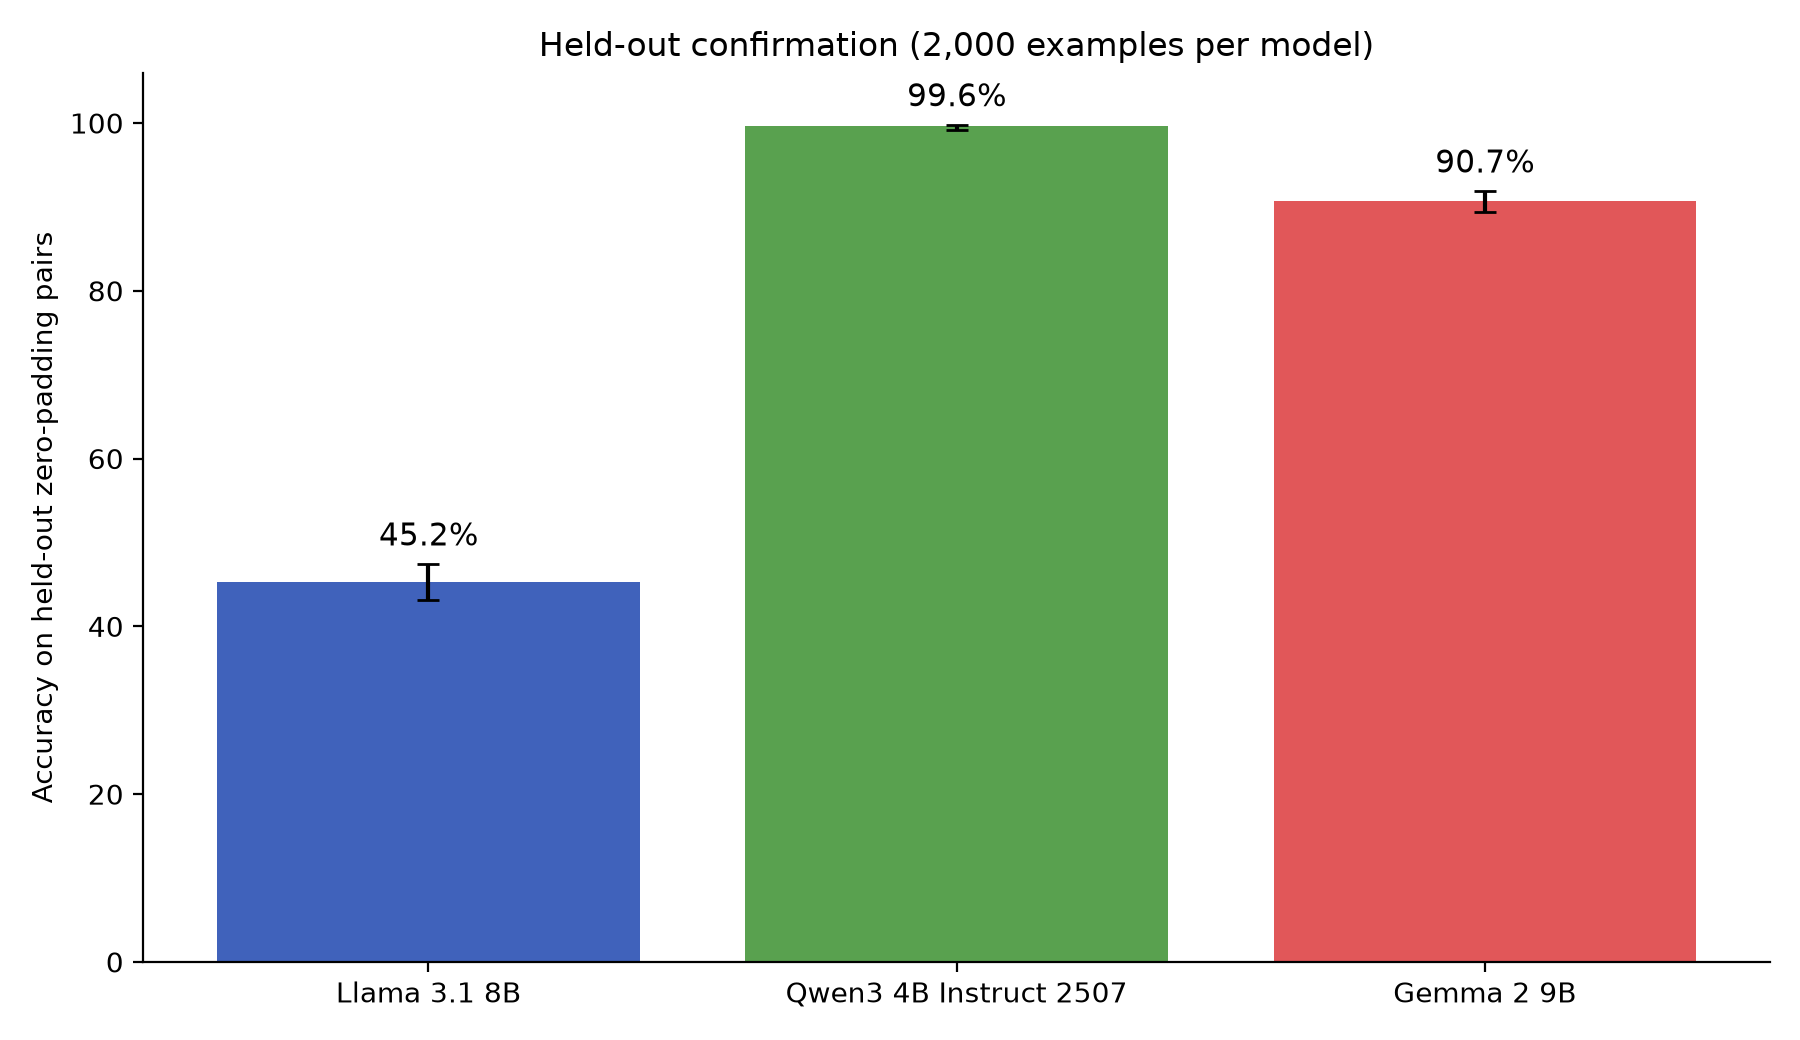
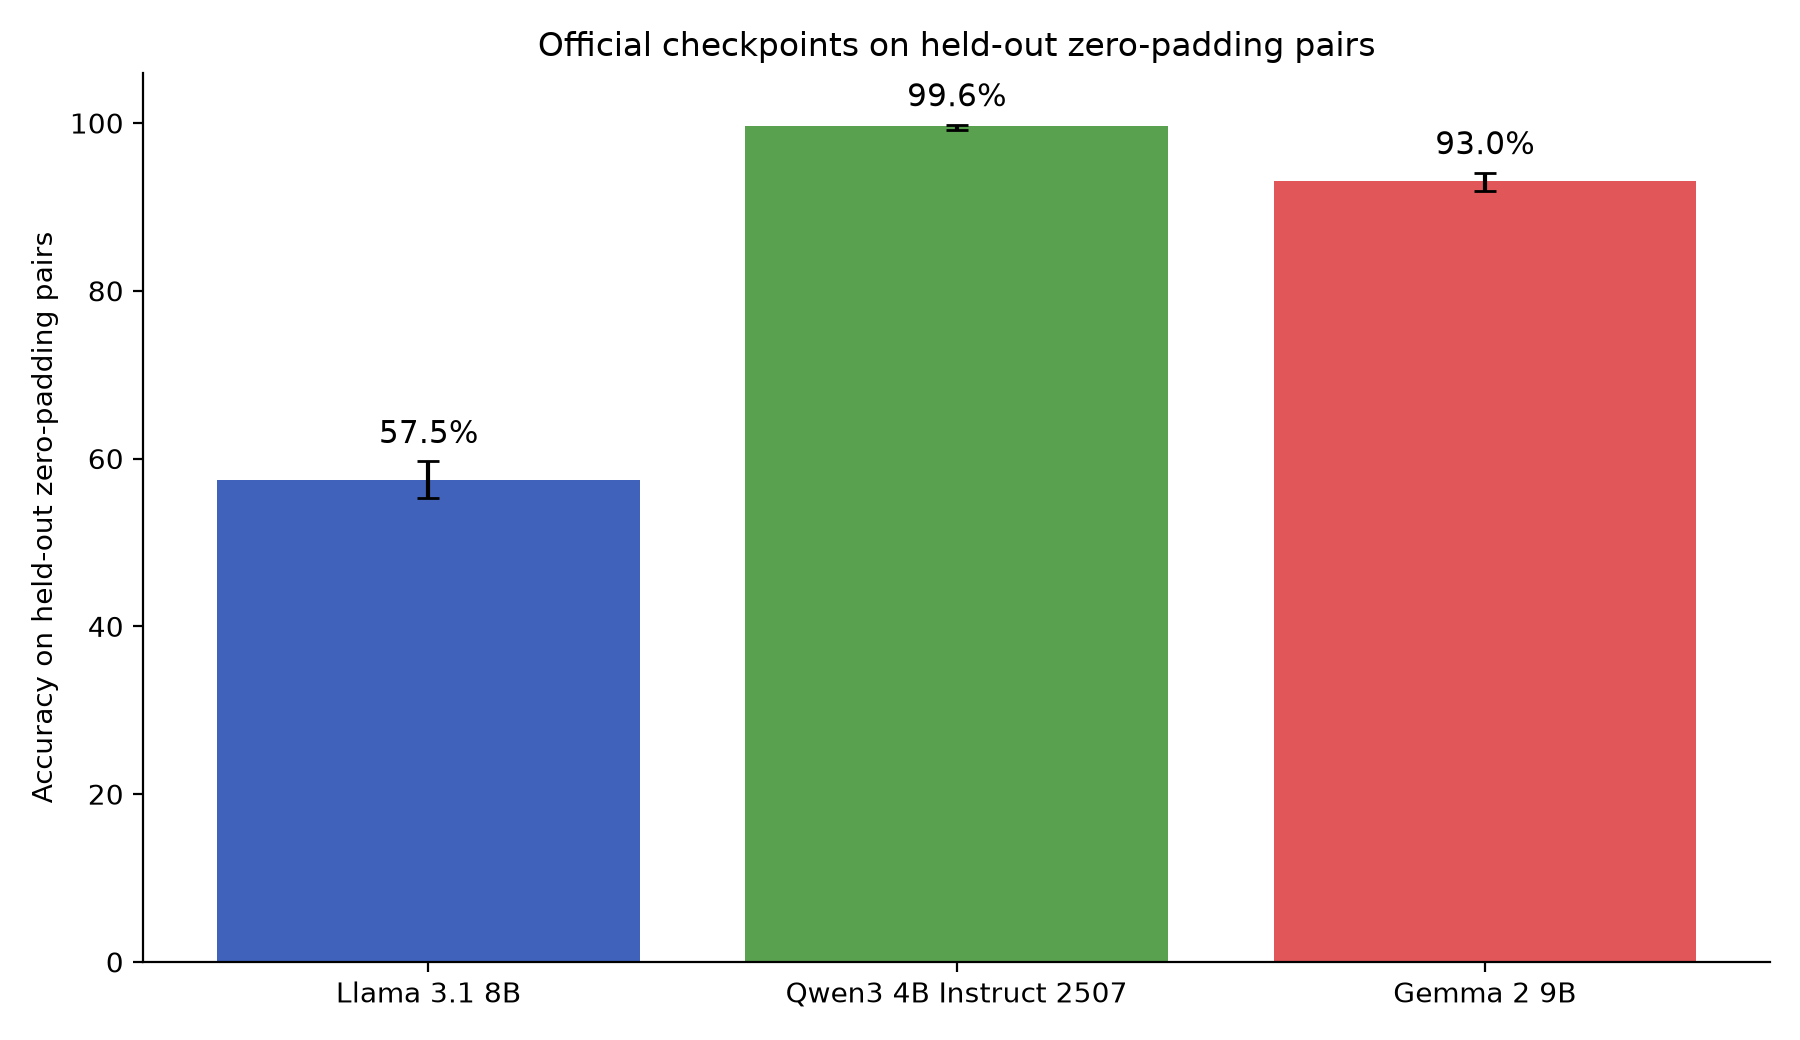
Use official checkpoints in primary results

diff --git a/scripts/build_report.py b/scripts/build_report.py
@@ -29,8 +29,13 @@ RUNS = {
     ("Gemma 2 9B", "Zero-padding", 0): RESULTS / "gemma2-9b__zero_padding__p0.jsonl",
     ("Llama 3.1 8B full precision", "Integer", 0): RESULTS / "meta-llama-Meta-Llama-3.1-8B-Instruct__integers__p0__mlx.jsonl",
     ("Llama 3.1 8B full precision", "Misleading", 0): RESULTS / "meta-llama-Meta-Llama-3.1-8B-Instruct__misleading__p0__mlx.jsonl",
+    ("Llama 3.1 8B full precision", "Zero-padding held-out", 0): RESULTS / "meta-llama-Meta-Llama-3.1-8B-Instruct__confirmatory_zero_padding__p0__mlx.jsonl",
+    ("Llama 3.1 8B full precision", "Zero-padding held-out", 1): RESULTS / "meta-llama-Meta-Llama-3.1-8B-Instruct__confirmatory_zero_padding__p1__mlx.jsonl",
+    ("Llama 3.1 8B full precision", "Zero-padding held-out", 2): RESULTS / "meta-llama-Meta-Llama-3.1-8B-Instruct__confirmatory_zero_padding__p2__mlx.jsonl",
+    ("Qwen3 4B Instruct 2507", "Zero-padding held-out", 0): RESULTS / "Qwen-Qwen3-4B-Instruct-2507__confirmatory_zero_padding__p0__mlx.jsonl",
     ("Gemma 2 9B full precision", "Integer", 0): RESULTS / "google-gemma-2-9b-it__integers__p0__mlx.jsonl",
     ("Gemma 2 9B full precision", "Misleading", 0): RESULTS / "google-gemma-2-9b-it__misleading__p0__mlx.jsonl",
+    ("Gemma 2 9B full precision", "Zero-padding held-out", 0): RESULTS / "google-gemma-2-9b-it__confirmatory_zero_padding__p0__mlx.jsonl",
 }
 
 
@@ -44,8 +49,9 @@ def wilson(k, n, z=1.959963984540054):
 
 def load_run(path):
     rows = [json.loads(line) for line in path.read_text().splitlines()]
-    if len(rows) != 1000:
-        raise ValueError(f"Expected 1000 rows in {path}, found {len(rows)}")
+    expected = 2000 if "confirmatory_zero_padding" in path.name else 1000
+    if len(rows) != expected:
+        raise ValueError(f"Expected {expected} rows in {path}, found {len(rows)}")
     if any(r.get("parse_status") == "error" for r in rows):
         raise ValueError(f"Execution error present in {path}")
     ids = [r["id"] for r in rows]
@@ -79,25 +85,28 @@ def summarize(model, task, prompt, path):
 
 
 def make_cross_model_plot(rows):
-    models = ["Llama 3.1 8B", "Qwen3 4B Instruct 2507", "Gemma 2 9B"]
-    tasks = ["Integer", "Misleading", "Zero-padding"]
+    models = ["Llama 3.1 8B full precision", "Qwen3 4B Instruct 2507", "Gemma 2 9B full precision"]
+    model_labels = ["Llama 3.1 8B", "Qwen3 4B", "Gemma 2 9B"]
+    tasks = ["Integer", "Misleading", "Zero-padding held-out"]
+    task_labels = ["Integer (n=1,000)", "Misleading decimal (n=1,000)",
+                   "Equal zero-padding (n=2,000)"]
     colors = ["#4062BB", "#59A14F", "#E15759"]
     fig, ax = plt.subplots(figsize=(10, 5.5))
     width = 0.24
     x = list(range(len(models)))
-    for j, task in enumerate(tasks):
+    for j, (task, task_label) in enumerate(zip(tasks, task_labels)):
         vals = [next(r for r in rows if r["model"] == m and r["task"] == task and r["prompt_variant"] == 0) for m in models]
         xs = [v + (j - 1) * width for v in x]
         ys = [100 * r["accuracy"] for r in vals]
         errors = [[100 * (r["accuracy"] - r["ci_low"]) for r in vals],
                   [100 * (r["ci_high"] - r["accuracy"]) for r in vals]]
-        bars = ax.bar(xs, ys, width, label=task, color=colors[j], yerr=errors,
+        bars = ax.bar(xs, ys, width, label=task_label, color=colors[j], yerr=errors,
                       capsize=3)
         ax.bar_label(bars, labels=[f"{y:.1f}" for y in ys], padding=3, fontsize=9)
-    ax.set_xticks(x, models)
+    ax.set_xticks(x, model_labels)
     ax.set_ylim(0, 110)
     ax.set_ylabel("Accuracy (%)")
-    ax.set_title("Decimal brittleness is concentrated in Llama 3.1 8B", pad=46)
+    ax.set_title("Official checkpoints show a large three-model gap", pad=46)
     ax.legend(frameon=False, ncols=3, loc="lower center",
               bbox_to_anchor=(0.5, 1.01))
     ax.spines[["top", "right"]].set_visible(False)
@@ -107,17 +116,17 @@ def make_cross_model_plot(rows):
 
 
 def make_prompt_plot(rows):
-    vals = [next(r for r in rows if r["model"] == "Llama 3.1 8B" and
-                 r["task"] == "Zero-padding" and r["prompt_variant"] == p)
+    vals = [next(r for r in rows if r["model"] == "Llama 3.1 8B full precision" and
+                 r["task"] == "Zero-padding held-out" and r["prompt_variant"] == p)
             for p in range(3)]
     labels = ["Primary prompt", "Compare values", "Select statement"]
     fig, ax = plt.subplots(figsize=(8, 5))
     ys = [100 * r["accuracy"] for r in vals]
     bars = ax.bar(labels, ys, color=["#4062BB", "#F28E2B", "#B07AA1"])
     ax.bar_label(bars, labels=[f"{y:.1f}%" for y in ys], padding=4, fontsize=11)
-    ax.set_ylim(0, 34)
+    ax.set_ylim(0, 66)
     ax.set_ylabel("Accuracy on equal zero-padded pairs")
-    ax.set_title("Llama's failure changes sharply with prompt wording")
+    ax.set_title("Full-precision Llama changes sharply with prompt wording")
     ax.spines[["top", "right"]].set_visible(False)
     fig.tight_layout()
     fig.savefig(FIGURES / "llama_prompt_sensitivity.png", dpi=200)

diff --git a/scripts/build_confirmatory_figures.py b/scripts/build_confirmatory_figures.py
@@ -1,5 +1,5 @@
 #!/usr/bin/env python3
-"""Build publication figures from the confirmatory analysis."""
+"""Build held-out figures from the three official checkpoint runs."""
 
 import json
 from pathlib import Path
@@ -7,29 +7,32 @@ from pathlib import Path
 import matplotlib
 matplotlib.use("Agg")
 import matplotlib.pyplot as plt
-import pandas as pd
 
 ROOT = Path(__file__).resolve().parents[1]
-payload = json.loads((ROOT / "results" / "confirmatory_analysis.json").read_text())
-data = pd.DataFrame(payload["summaries"])
+payload = json.loads((ROOT / "results" / "summary.json").read_text())
+models = ["Llama 3.1 8B full precision", "Qwen3 4B Instruct 2507",
+          "Gemma 2 9B full precision"]
+data = [next(row for row in payload if row["model"] == model and
+             row["task"] == "Zero-padding held-out" and
+             row["prompt_variant"] == 0) for model in models]
 figures = ROOT / "figures"
 figures.mkdir(exist_ok=True)
 
-short = {"Llama 3.1 8B": "Llama 3.1 8B",
+short = {"Llama 3.1 8B full precision": "Llama 3.1 8B",
          "Qwen3 4B Instruct 2507": "Qwen3 4B Instruct 2507",
-         "Gemma 2 9B": "Gemma 2 9B"}
-labels = [short[x] for x in data.model]
+         "Gemma 2 9B full precision": "Gemma 2 9B"}
+labels = [short[x["model"]] for x in data]
 colors = ["#4062BB", "#59A14F", "#E15759"]
 
 fig, ax = plt.subplots(figsize=(9, 5.2))
-y = data.accuracy * 100
-err = [(data.accuracy - data.ci_low) * 100,
-       (data.ci_high - data.accuracy) * 100]
+y = [row["accuracy"] * 100 for row in data]
+err = [[(row["accuracy"] - row["ci_low"]) * 100 for row in data],
+       [(row["ci_high"] - row["accuracy"]) * 100 for row in data]]
 bars = ax.bar(labels, y, color=colors, yerr=err, capsize=4)
 ax.bar_label(bars, labels=[f"{x:.1f}%" for x in y], padding=4, fontsize=11)
 ax.set_ylim(0, 106)
 ax.set_ylabel("Accuracy on held-out zero-padding pairs")
-ax.set_title("Held-out confirmation (2,000 examples per model)")
+ax.set_title("Official checkpoints on held-out zero-padding pairs")
 ax.spines[["top", "right"]].set_visible(False)
 fig.tight_layout()
 fig.savefig(figures / "confirmatory_accuracy.png", dpi=200)
@@ -38,8 +41,8 @@ plt.close(fig)
 fig, ax = plt.subplots(figsize=(9, 5.2))
 x = range(len(data))
 width = 0.34
-first = data.padded_first_accuracy * 100
-second = data.padded_second_accuracy * 100
+first = [row["correct_padded_first"] * 100 for row in data]
+second = [row["correct_padded_second"] * 100 for row in data]
 b1 = ax.bar([i - width / 2 for i in x], first, width,
             color="#F28E2B", label="Padded form first")
 b2 = ax.bar([i + width / 2 for i in x], second, width,
@@ -49,13 +52,13 @@ ax.bar_label(b2, labels=[f"{v:.1f}" for v in second], padding=3)
 ax.set_xticks(list(x), labels)
 ax.set_ylim(0, 108)
 ax.set_ylabel("Accuracy (%)")
-fig.suptitle("Answer order dominates Llama's equality judgments", y=0.98)
+fig.suptitle("Numeral presentation order changes equality judgments", y=0.98)
 ax.legend(frameon=False, loc="lower center", ncols=2,
           bbox_to_anchor=(0.5, 1.01))
 ax.spines[["top", "right"]].set_visible(False)
 fig.tight_layout(rect=(0, 0, 1, 0.88))
-fig.savefig(figures / "confirmatory_order_effect.png", dpi=200)
+fig.savefig(figures / "confirmatory_numeral_order.png", dpi=200)
 plt.close(fig)
 
 print(figures / "confirmatory_accuracy.png")
-print(figures / "confirmatory_order_effect.png")
+print(figures / "confirmatory_numeral_order.png")

diff --git a/scripts/prompt_robustness_analysis.py b/scripts/prompt_robustness_analysis.py
@@ -1,5 +1,5 @@
 #!/usr/bin/env python3
-"""Summarize held-out Llama prompt variants with Wilson intervals."""
+"""Summarize official full-precision Llama prompt variants."""
 import json, math
 from pathlib import Path
 
@@ -12,7 +12,7 @@ def wilson(k, n, z=1.959963984540054):
 def main():
     rows = []
     for variant in range(3):
-        path = Path(f"results/llama3.1-8b__confirmatory_zero_padding__p{variant}.jsonl")
+        path = Path(f"results/meta-llama-Meta-Llama-3.1-8B-Instruct__confirmatory_zero_padding__p{variant}__mlx.jsonl")
         data = [json.loads(line) for line in path.read_text().splitlines()]
         if len(data) != 2000 or any(row["parse_status"] == "error" for row in data):
             raise RuntimeError(f"{path} is incomplete or contains execution errors")
@@ -21,7 +21,9 @@ def main():
         for position in (1, 2):
             subset = [row for row in data if row["padded_position"] == position]
             by_position[position] = sum(row["correct"] for row in subset) / len(subset)
-        rows.append({"prompt_variant": variant, "correct": correct, "n": len(data),
+        rows.append({"model": "meta-llama/Meta-Llama-3.1-8B-Instruct",
+                     "revision": "0e9e39f249a16976918f6564b8830bc894c89659",
+                     "prompt_variant": variant, "correct": correct, "n": len(data),
                      "accuracy": correct/len(data), "ci_low": low, "ci_high": high,
                      "padded_first_accuracy": by_position[1],
                      "padded_second_accuracy": by_position[2]})

diff --git a/RESULTS_REPORT.md b/RESULTS_REPORT.md
@@ -10,29 +10,33 @@ full-precision controls, representation analyses, and causal interventions.
 
 | Model | Integer | Misleading decimal | Equal zero-padding |
 |---|---:|---:|---:|
-| Llama 3.1 8B | 99.8% | 41.9% | 27.9% |
-| Qwen3 4B Instruct 2507 | 100.0% | 99.6% | 98.6% |
-| Gemma 2 9B | 100.0% | 96.6% | 92.3% |
+| Llama 3.1 8B | 99.8% | 54.6% | 57.5% |
+| Qwen3 4B Instruct 2507 | 100.0% | 99.6% | 99.6% |
+| Gemma 2 9B | 100.0% | 95.7% | 93.05% |
 
-All cells contain 1,000 valid responses. Full confidence intervals and source
-filenames are in `results/summary.json`.
+These are the pinned official checkpoints. Integer and misleading-decimal
+cells contain 1,000 valid responses. Equal zero-padding cells contain 2,000
+held-out responses. Full confidence intervals and source filenames are in
+`results/summary.json`.
 
-## Order and prompt effects
+## Numeral presentation and prompt effects
 
 On the zero-padding task, accuracy when the padded representation appeared
 first versus second was:
 
 | Model | Padded first | Padded second |
 |---|---:|---:|
-| Llama 3.1 8B | 3.0% | 52.8% |
-| Qwen3 4B Instruct 2507 | 97.2% | 100.0% |
-| Gemma 2 9B | 84.6% | 100.0% |
+| Llama 3.1 8B | 15.5% | 99.5% |
+| Qwen3 4B Instruct 2507 | 99.2% | 100.0% |
+| Gemma 2 9B | 86.1% | 100.0% |
 
-Llama zero-padding accuracy across three prompt variants was 27.9%, 3.7%, and
-17.2%. These effects show that prompt and answer order are major components of
-the observed failure.
+Official full-precision Llama accuracy across three prompt variants was 57.5%,
+3.5%, and 24.65%. These effects show that prompt wording and numeral
+presentation order are major components of the observed failure. The correct
+response remains option 3 when the two numerals swap, so this experiment does
+not test answer-label position.
 
-## Held-out confirmation
+## Initial held-out analysis
 
 A fixed 2,000-row factorial dataset used unseen whole-number components
 (21–99), ten fractional digits, one through five appended zeros, and perfectly
@@ -44,8 +48,11 @@ balanced presentation order.
 | Qwen3 4B Instruct 2507 | 99.60% | 99.21–99.80% | 99.2% | 100.0% |
 | Gemma 2 9B | 90.70% | 89.35–91.90% | 81.4% | 100.0% |
 
-All registered overall thresholds and all three directional order tests
-survived Holm correction. The secondary digit-1-versus-digit-0 prediction also
+These were the initially analyzed quantized Llama and Gemma runs, alongside
+official Qwen. They are retained as a prespecified sensitivity analysis, not
+as the primary cross-model comparison. All prespecified overall thresholds and
+all three directional numeral-order tests survived Holm correction. The
+secondary digit-1-versus-digit-0 prediction also
 appeared in every model. The registered ordinary logistic interaction was
 invalid because perfect padded-second performance in Qwen and Gemma caused
 complete separation; this failure is reported rather than interpreted.
@@ -60,7 +67,7 @@ Llama checkpoint. Variants 0, 1, and 2 scored 57.50%, 3.50%, and 24.65%, with
 2,000 exact parses per condition and no errors. Precision improved all three
 conditions but did not remove the large prompt dependence.
 
-## Official full-precision sensitivity
+## Quantization sensitivity
 
 The primary held-out prompt was rerun on the official unquantized checkpoints,
 pinned to immutable Hugging Face revisions, using the identical 2,000 rows.
@@ -73,7 +80,7 @@ pinned to immutable Hugging Face revisions, using the identical 2,000 rows.
 Paired exact McNemar tests found 245 versus 0 discordant Llama rows
 (`p=3.5e-74`) and 50 versus 3 Gemma rows (`p=5.5e-12`). Full precision
 therefore changes the aggregate result, especially for Llama, while preserving
-the central answer-order instability.
+the central numeral-order instability.
 
 Official full-precision Llama exploratory controls are also complete. Integer
 accuracy remained 99.8%; misleading-decimal accuracy rose from 41.9% quantized

diff --git a/README.md b/README.md
@@ -10,7 +10,8 @@ The unpublished LessWrong draft is intentionally not included here.
 ## Main findings
 
 - Llama 3.1 8B compares ordinary integers almost perfectly but is highly
-  sensitive to decimal formatting, prompt wording, and answer order.
+  sensitive to decimal formatting, prompt wording, and numeral presentation
+  order.
 - Qwen3 4B and Gemma 2 9B are much more accurate on matched decimal tasks.
 - Qwen passes the fixed-site causal-generalization criterion on two new prompt
   templates and an incompatible-value donor test.
